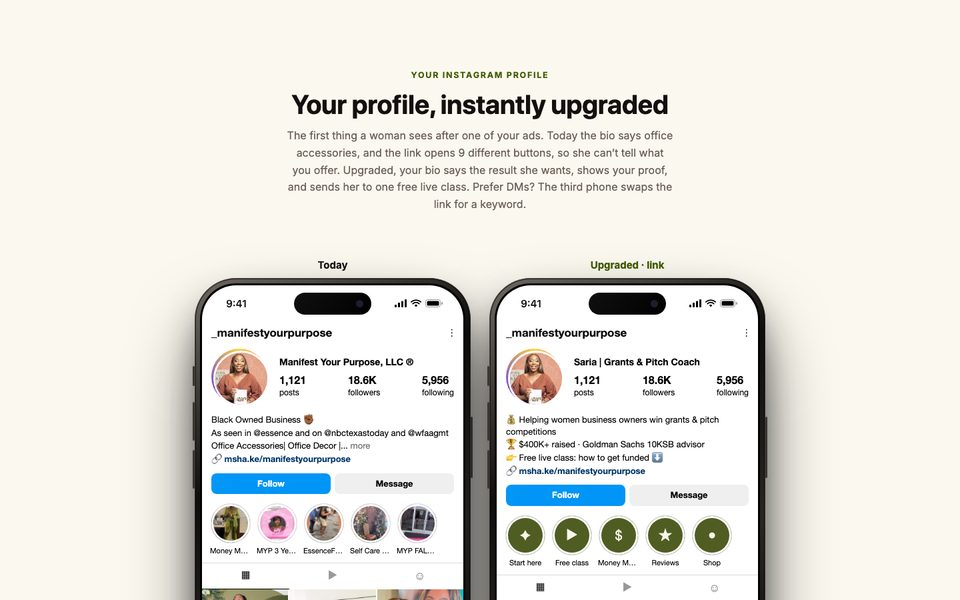
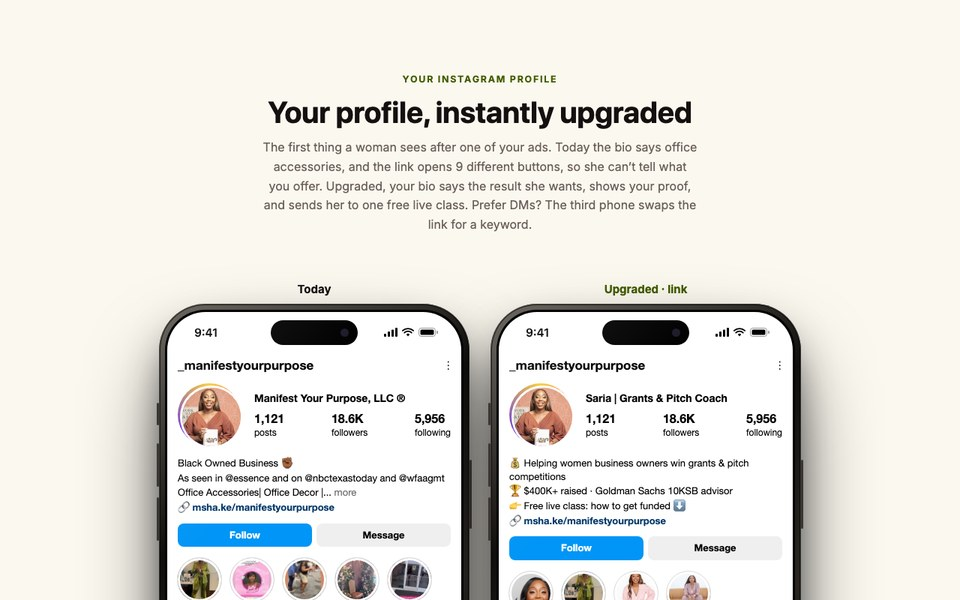
Refresh stale card thumbnails

Changed region(s): [[0.125, 0.42, 0.875, 1.0], [0.2812, 0.12, 0.7188, 0.39]]

diff --git a/index.html b/index.html
@@ -187,7 +187,7 @@
           </div>
           <div class="grid grid--2">
             <button class="pcard reveal" data-title="Your upgraded profile" data-embed="ig-profile/?v=1" data-noanim>
-              <span class="thumb"><span class="thumb__bar"><i></i><i></i><i></i><span class="thumb__url">instagram.com/_manifestyourpurpose</span></span><img class="thumb__img" src="assets/img/profile-preview.jpg?v=1" alt="Your upgraded profile preview" loading="lazy" /></span>
+              <span class="thumb"><span class="thumb__bar"><i></i><i></i><i></i><span class="thumb__url">instagram.com/_manifestyourpurpose</span></span><img class="thumb__img" src="assets/img/profile-preview.jpg?v=t2138" alt="Your upgraded profile preview" loading="lazy" /></span>
               <span class="pcard__body"><span><span class="pcard__kicker">Bio + highlights</span><span class="pcard__title">Your upgraded profile</span><span class="pcard__desc">Today next to upgraded: a bio that says who you help, your proof and one free class, plus Start here first in your highlights.</span></span><span class="pcard__link">Open preview <span class="arrow" aria-hidden="true"></span></span></span>
             </button>
 <button class="pcard reveal" data-title="Your new link page" data-embed="link-in-bio/?v=1" data-noanim>
